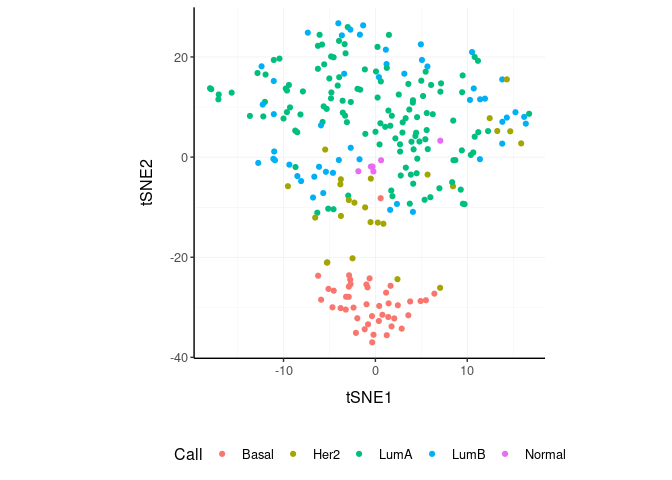
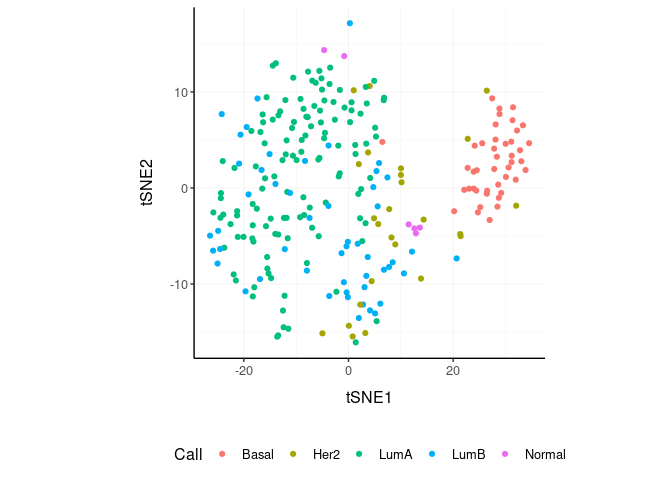
Update README tidyomics ecosystem links

diff --git a/README.md b/README.md
@@ -1,11 +1,12 @@
-tidybulk - part of tidyTranscriptomics
+tidybulk - part of *tidyomics*
 ================
 
 <!-- badges: start -->
 
 [![Lifecycle:maturing](https://img.shields.io/badge/lifecycle-maturing-blue.svg)](https://www.tidyverse.org/lifecycle/#maturing)
 [![R build
-status](https://github.com/stemangiola/tidybulk/workflows/R-CMD-check-bioc/badge.svg)](https://github.com/stemangiola/tidybulk/actions)
+status](https://github.com/stemangiola/tidybulk/workflows/rworkflows/badge.svg)](https://github.com/stemangiola/tidybulk/actions)
+
 <!-- badges: end -->
 
 **Brings transcriptomics to the tidyverse!**
@@ -15,26 +16,48 @@ License.
 
 <img src="man/figures/logo.png" width="120px" height="139px" />
 
-website:
-[stemangiola.github.io/tidybulk/](http://stemangiola.github.io/tidybulk/)
-[Third party
-tutorials](https://rstudio-pubs-static.s3.amazonaws.com/792462_f948e766b15d4ee5be5c860493bda0b3.html)
-Please have a look also to
+Resources to help you get started with *tidyomics* and tidybulk:
 
-- [tidySummarizedExperiment](https://github.com/stemangiola/tidySummarizedExperiment)
-  for bulk data tidy representation
-- [tidySingleCellExperiment](https://github.com/stemangiola/tidySingleCellExperiment)
-  for single-cell data tidy representation
-- [tidyseurat](https://github.com/stemangiola/tidyseurat) for
-  single-cell data tidy representation
-- [tidyHeatmap](https://github.com/stemangiola/tidyHeatmap) for heatmaps
-  produced with tidy principles analysis and manipulation
-- [tidygate](https://github.com/stemangiola/tidygate) for adding custom
-  gate information to your tibble
+- [The tidyomics blog](https://tidyomics.github.io/tidyomicsBlog/)
+- [The tidybulk website](http://stemangiola.github.io/tidybulk/)
+- [Third party
+  tutorials](https://rstudio-pubs-static.s3.amazonaws.com/792462_f948e766b15d4ee5be5c860493bda0b3.html)
 
-<!---
-&#10;[![Build Status](https://travis-ci.org/stemangiola/tidybulk.svg?branch=master)](https://travis-ci.org/stemangiola/tidybulk) [![Coverage Status](https://coveralls.io/repos/github/stemangiola/tidybulk/badge.svg?branch=master)](https://coveralls.io/github/stemangiola/tidybulk?branch=master)
-&#10;-->
+The *tidyomics* ecosystem includes packages for:
+
+- Working with genomic features:
+
+  - [plyranges](https://github.com/sa-lee/plyranges), for tidy
+    manipulation of genomic range data.
+  - [nullranges](https://github.com/nullranges/nullranges), for tidy
+    generation of genomic ranges representing the null hypothesis.
+  - [plyinteractions](https://github.com/tidyomics/plyinteractions), for
+    tidy manipulation of genomic interaction data.
+
+- Working with transcriptomic features:
+
+  - [tidySummarizedExperiment](https://github.com/stemangiola/tidySummarizedExperiment),
+    for tidy manipulation of SummarizedExperiment objects.
+  - [tidySingleCellExperiment](https://github.com/stemangiola/tidySingleCellExperiment),
+    for tidy manipulation of SingleCellExperiment objects.
+  - [tidySpatialExperiment](https://github.com/william-hutchison/tidySpatialExperiment),
+    for tidy manipulation of SpatialExperiment objects.
+  - [tidyseurat](https://github.com/stemangiola/tidyseurat), for tidy
+    manipulation of Seurat objects.
+  - [tidybulk](https://github.com/stemangiola/tidybulk), for tidy bulk
+    RNA-seq data analysis.
+
+- Working with cytometry features:
+
+  - [tidytof](https://github.com/keyes-timothy/tidytof), for tidy
+    manipulation of high-dimensional cytometry data.
+
+A few more tidy tools for data manipulation and plotting:
+
+- [tidyHeatmap](https://github.com/stemangiola/tidyHeatmap), for
+  producing heatmaps with tidy principles. analysis and manipulation
+- [tidygate](https://github.com/stemangiola/tidygate), for interactive
+  plotting and gating.
 
 <img src="man/figures/new_SE_usage-01.png" width="800px" />
 
@@ -445,16 +468,16 @@ se_mini.norm.tSNE |>
     ## # A tibble: 251 × 4
     ##     tSNE1  tSNE2 .sample                      Call 
     ##     <dbl>  <dbl> <chr>                        <fct>
-    ##  1  4.09   11.4  TCGA-A1-A0SD-01A-11R-A115-07 LumA 
-    ##  2  1.86   -7.80 TCGA-A1-A0SF-01A-11R-A144-07 LumA 
-    ##  3 -1.95   13.6  TCGA-A1-A0SG-01A-11R-A144-07 LumA 
-    ##  4 10.8     4.07 TCGA-A1-A0SH-01A-11R-A084-07 LumA 
-    ##  5 13.8     2.69 TCGA-A1-A0SI-01A-11R-A144-07 LumB 
-    ##  6  0.239  11.9  TCGA-A1-A0SJ-01A-11R-A084-07 LumA 
-    ##  7 -2.12  -35.1  TCGA-A1-A0SK-01A-12R-A084-07 Basal
-    ##  8 16.7     8.65 TCGA-A1-A0SM-01A-11R-A084-07 LumA 
-    ##  9 15.3     8.97 TCGA-A1-A0SN-01A-11R-A144-07 LumB 
-    ## 10 -3.35   22.6  TCGA-A1-A0SQ-01A-21R-A144-07 LumA 
+    ##  1 -13.4    7.56 TCGA-A1-A0SD-01A-11R-A115-07 LumA 
+    ##  2   5.25   5.35 TCGA-A1-A0SF-01A-11R-A144-07 LumA 
+    ##  3 -18.4   -5.26 TCGA-A1-A0SG-01A-11R-A144-07 LumA 
+    ##  4 -10.4    6.87 TCGA-A1-A0SH-01A-11R-A084-07 LumA 
+    ##  5  -8.31   2.81 TCGA-A1-A0SI-01A-11R-A144-07 LumB 
+    ##  6   2.22  -3.15 TCGA-A1-A0SJ-01A-11R-A084-07 LumA 
+    ##  7  33.3    6.52 TCGA-A1-A0SK-01A-12R-A084-07 Basal
+    ##  8   5.38 -13.9  TCGA-A1-A0SM-01A-11R-A084-07 LumA 
+    ##  9   4.11 -12.7  TCGA-A1-A0SN-01A-11R-A144-07 LumB 
+    ## 10 -23.9   -2.77 TCGA-A1-A0SQ-01A-21R-A144-07 LumA 
     ## # ℹ 241 more rows
 
 ``` r
